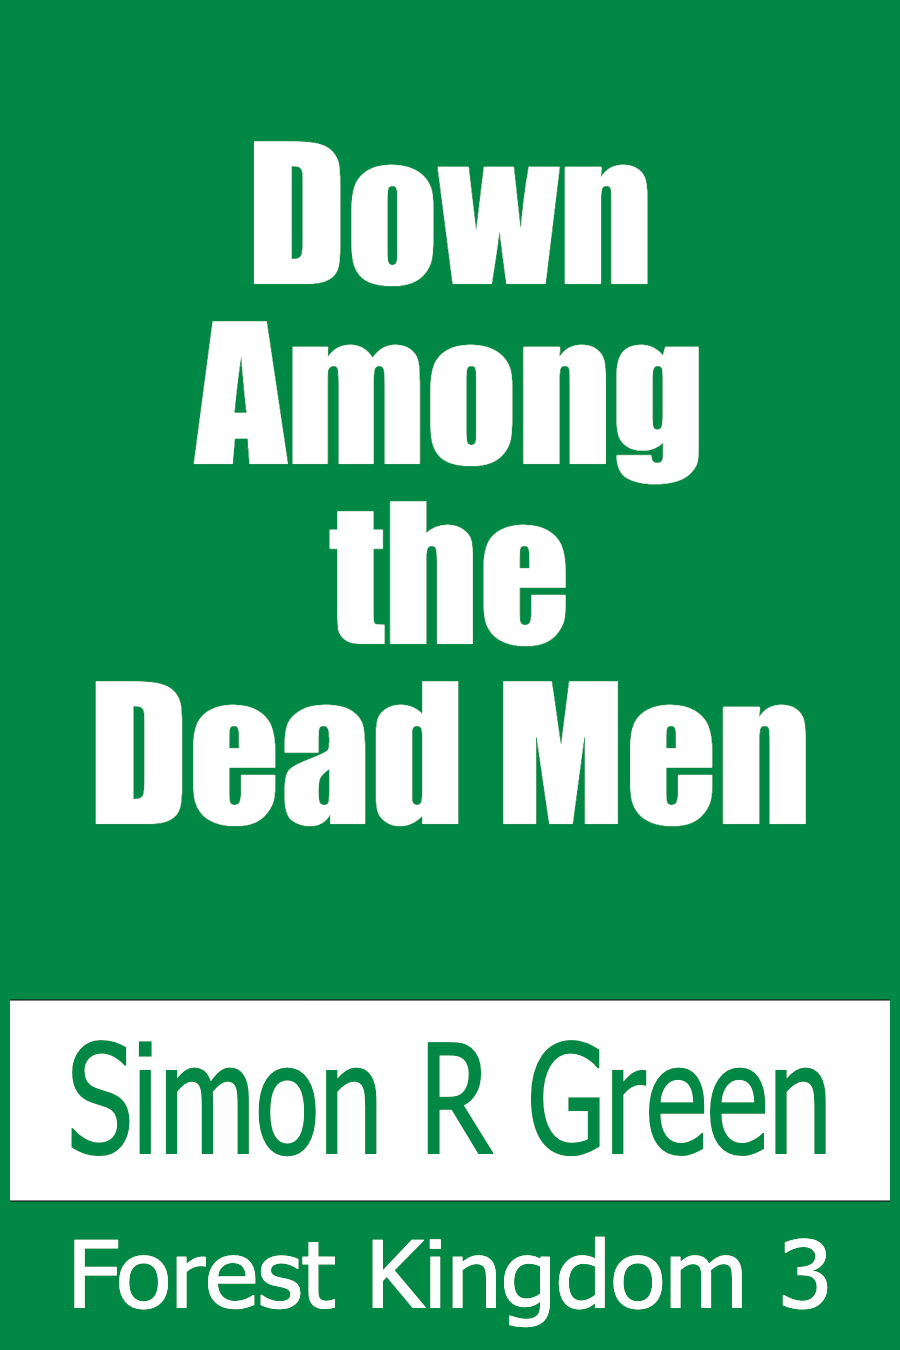
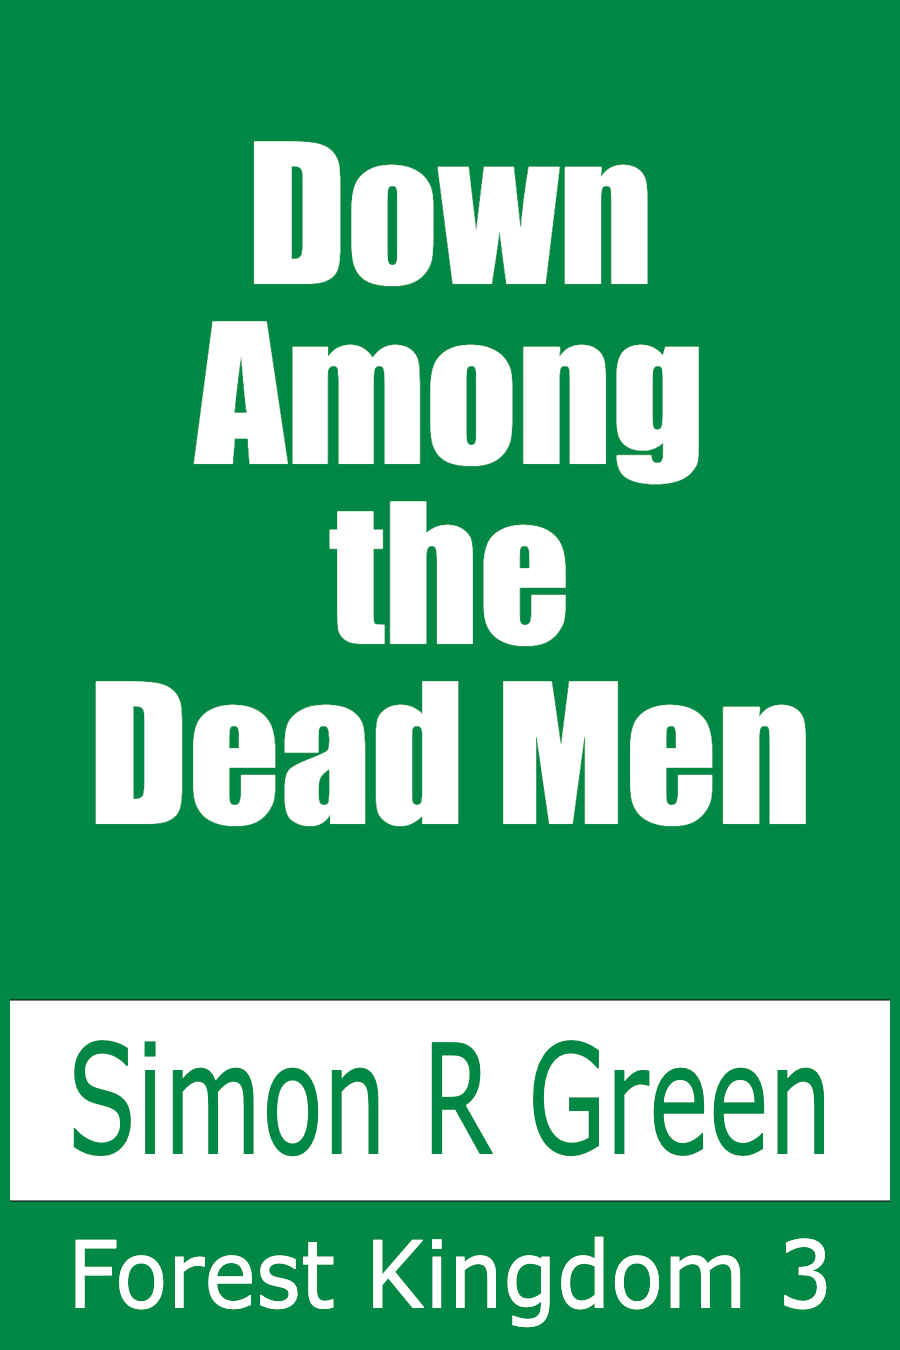
Add support for the font arguments

diff --git a/CreateCover/Models/Theme.cs b/CreateCover/Models/Theme.cs
@@ -39,7 +39,37 @@
             };
         }
 
-        public static Theme Monochrome()
+        public static bool IsStandardTheme(string themeName)
+        {
+            return StandardThemes().ContainsKey(themeName.ToLowerInvariant());
+        }
+
+        public static string GetStandardThemeNames()
+        {
+            return string.Join(", ", StandardThemes().Select(x => x.Key));
+        }
+
+        public static Theme GetStandardTheme(string themeName)
+        {
+            return StandardThemes()[themeName.ToLowerInvariant()];
+        }
+
+        private static SortedList<string, Theme> StandardThemes()
+        {
+            var themes = new SortedList<string, Theme>
+            {
+                { "default", Defaults() },
+                { "dark", Dark() },
+                { "blue", Blue() },
+                { "green", Green() },
+                { "red", Red() },
+                { "yellow", Yellow() },
+                { "orange", Orange() },
+            };
+            return themes;
+        }
+
+        private static Theme Defaults()
         {
             return Theme.Create(
                 Color.White,
@@ -53,9 +83,9 @@
                 "Tahoma,Arial");
         }
 
-        public static Theme Dark()
+        private static Theme Dark()
         {
-            var theme = Theme.Monochrome();
+            var theme = Theme.Defaults();
             theme.BackColor = Color.Black;
             theme.ForeColor = Color.White;
             theme.AuthorBackColor = Color.White;
@@ -64,9 +94,9 @@
             return theme;
         }
 
-        public static Theme Blue()
+        private static Theme Blue()
         {
-            var theme = Theme.Monochrome();
+            var theme = Theme.Defaults();
             theme.BackColor = new Color("004488");
             theme.ForeColor = Color.White;
             theme.AuthorBackColor = theme.ForeColor;
@@ -75,9 +105,9 @@
             return theme;
         }
 
-        public static Theme Green()
+        private static Theme Green()
         {
-            var theme = Theme.Monochrome();
+            var theme = Theme.Defaults();
             theme.BackColor = new Color("008844");
             theme.ForeColor = Color.White;
             theme.AuthorBackColor = theme.ForeColor;
@@ -86,9 +116,9 @@
             return theme;
         }
 
-        public static Theme Red()
+        private static Theme Red()
         {
-            var theme = Theme.Monochrome();
+            var theme = Theme.Defaults();
             theme.BackColor = new Color("884444");
             theme.ForeColor = Color.White;
             theme.AuthorBackColor = theme.ForeColor;
@@ -97,9 +127,9 @@
             return theme;
         }
 
-        public static Theme Yellow()
+        private static Theme Yellow()
         {
-            var theme = Theme.Monochrome();
+            var theme = Theme.Defaults();
             theme.BackColor = new Color("DDDD88");
             theme.ForeColor = Color.Black;
             theme.AuthorBackColor = theme.ForeColor;
@@ -108,9 +138,9 @@
             return theme;
         }
 
-        public static Theme Orange()
+        private static Theme Orange()
         {
-            var theme = Theme.Monochrome();
+            var theme = Theme.Defaults();
             theme.BackColor = new Color("FFAA55");
             theme.ForeColor = Color.Black;
             theme.AuthorBackColor = theme.ForeColor;

diff --git a/CreateCover/Program.cs b/CreateCover/Program.cs
@@ -30,13 +30,18 @@ class Program
         config.ShowInfo();
         Console.WriteLine();
         Console.WriteLine("THEMES:");
-        Console.WriteLine("  default, dark, blue, green, orange, red, yellow");
+        Console.WriteLine("  " + Theme.GetStandardThemeNames());
 
         // Load and validate.
         config.AddCustomValidator("file", (conf, key, value) =>
         {
             if (Path.GetExtension((string)value).ToLowerInvariant() != ".svg")
                 conf.AddError(key, "should be an SVG file");
+        });
+        config.AddCustomValidator("theme", (conf, key, value) =>
+        {
+            if (Theme.IsStandardTheme((string)value) == false)
+                conf.AddError(key, "sets an unknown theme");
         });
         config.SetFrom(args);
         if (config.HasError)
@@ -50,7 +55,12 @@ class Program
         config.ShowProvided();
         Console.WriteLine();
         Console.WriteLine("Generating SVG cover.");
-        var theme = Theme.Green();
+        var theme = Theme.GetStandardTheme(config.ProvidedStrings["theme"]);
+        if (config.HasInt("titlefontsize")) theme.TitleFontSize = config.ProvidedInts["titlefontsize"];
+        if (config.HasString("titlefont")) theme.TitleFonts = config.ProvidedStrings["titlefont"];
+        if (config.HasString("authorfont")) theme.AuthorFont = config.ProvidedStrings["authorfont"];
+        if (config.HasString("seriesfont")) theme.SeriesFont = config.ProvidedStrings["seriesfont"];
+
         var cover = new Cover(
             900,
             1350,

diff --git a/CreateCover/Models/SVG.cs b/CreateCover/Models/SVG.cs
@@ -56,7 +56,7 @@ namespace CreateCover.Models
         public string GetSVG()
         {
             var s = new StringBuilder();
-            s.AppendLine($"<svg version=\"1.1\" xmlns=\"http://www.w3.org/2000/svg\" width=\"{Width}\" height=\"{Height}\">");
+            s.AppendLine($"<svg version=\"1.1\" xmlns=\"http://www.w3.org/2000/svg\" width=\"{Width}\" height=\"{Height}\" viewBox=\"0 0 {Width} {Height}\">");
             foreach (var step in Steps) s.AppendLine(step.GetSVG());
             s.AppendLine("</svg>");
             return s.ToString();

diff --git a/CreateCover/Models/Config.cs b/CreateCover/Models/Config.cs
@@ -10,6 +10,9 @@
         public bool HasError => Errors.Any();
         public Dictionary<string, string> Errors = new();
 
+        public bool HasString(string key) => ProvidedStrings.ContainsKey(key.ToLowerInvariant());
+        public bool HasInt(string key) => ProvidedInts.ContainsKey(key.ToLowerInvariant());
+
         private readonly Dictionary<string, Action<Config, string, object>> CustomValidators = new();
 
         /// <summary>Defines all expected parameters.</summary>

diff --git a/README.md b/README.md
@@ -7,13 +7,11 @@ Supports a small selection of themes using a standard (and auto-arranging) layou
 
 ## To generate a cover
 
-Currently *some* details are hard-coded, though the logic is in there to support the
-required options once arguments have been passed through.
-
 Example command:
 
 ```sh
-dotnet run -- -titlefontsize=190 -file=cover.svg -title="Down\nAmong\nthe\nDead Men" -author="Simon R Green" -series="Forest Kingdom 3" -theme=default
+cd <project>
+dotnet run -- -titlefontsize=180 -file=../green-example.svg -title="Down\nAmong\nthe\nDead Men" -author="Simon R Green" -series="Forest Kingdom 3" -theme=green -titlefont="Impact" -authorfont="Verdana" -seriesfont="Verdana"
 ```
 
 ## To convert to a PNG
